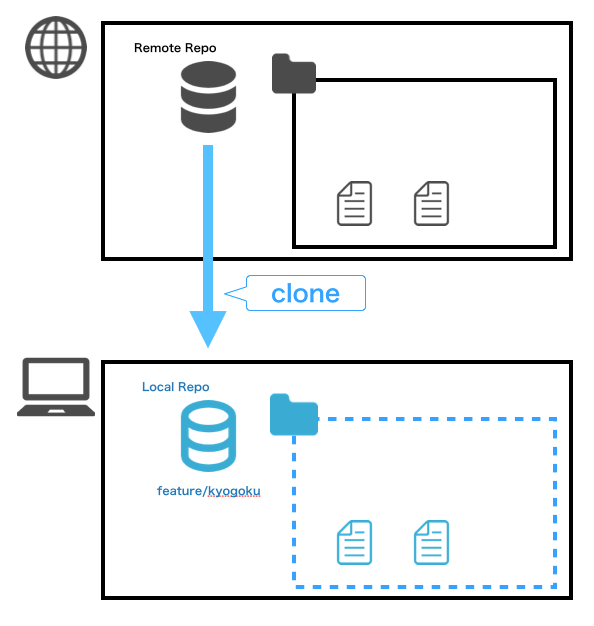
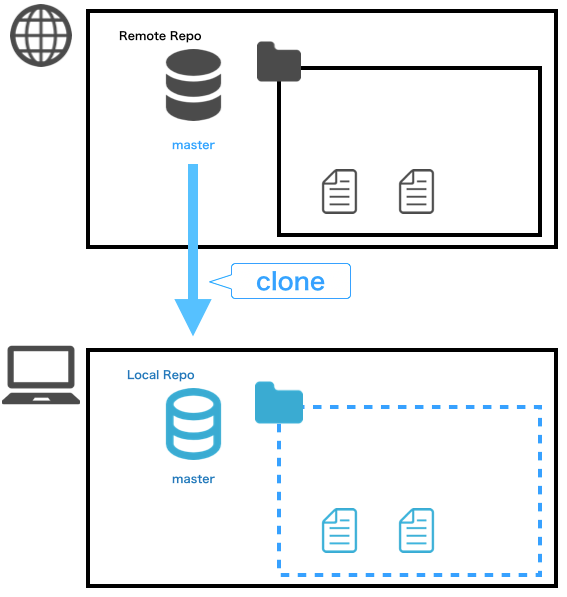
ワークショップ準備のため必要なディレクトリを先に追加

Changed region(s): [[0.0, 0.0, 0.9894, 0.995], [0.6896, 0.2714, 0.7795, 0.3618], [0.5697, 0.2714, 0.6296, 0.3618]]

diff --git a/docs/Phase4/4-jp.md b/docs/Phase4/4-jp.md
@@ -66,7 +66,7 @@ paginate: true
 
 ※第 1 回講義資料より
 
-![gitイメージ](https://www.ricksoft.jp/blog/wp-content/uploads/2018/11/Subversion02.png)
+![w:800px](https://www.ricksoft.jp/blog/wp-content/uploads/2018/11/Subversion02.png)
 
 出典：[GitとSubversionの構造的な違い - Ricksoft Blog](https://www.ricksoft.jp/blog/archives/9483/)
 
@@ -99,63 +99,105 @@ Git がどういう物なのかを学んで行きます。
 
 まずみなさんが本講義を受ける時に初めて叩いたコマンドがこれでした。
 
-```git clone https://github.com/GuildWorks/titech-2020.git`
-
-----
-
-※今までの講義で編集したファイルたちが残っているとこの後の commit / push の時に大変だと思うので、別名でもう一回 clone してきた方がよいかも。
+```bash
+git clone https://github.com/GuildWorks/titech-2020.git`
+```
 
 ----
 
 このコマンドが何をやっているかというと... :thinking:
 
 * `git` で Git のコマンドであることを示します
-* 次に Git の `clone` コマンドを実行します。
-* この `clone` は、その後に続く「リモートリポジトリ」の内容をもとに「ローカルリポジトリ」を作るコマンドになります。
-* その時、リモートリポジトリから **どのブランチ** の状態を持ってくるかが重要になってきます
-* 最初に叩いたコマンドではブランチ名を特に指定していませんでした
-* ブランチ名が省略された場合、対象となるリモートリポジトリに設定されているデフォルトブランチ（今回なら `master` ブランチ）の状態を持ってきます
-* もし、特定のブランチの状態を指定してリモートリポジトリの内容を持ってきたい場合はこんな感じになります。
-
-```git clone -b feature/phase4 git@github.com:GuildWorks/titech-2020.git```
-
-※リモートとローカルの作業ディレクトリの絵
+* 次に Git の `clone` コマンドを実行します
+* この `clone` は、その後に続く「リモートリポジトリ」の内容をもとに「ローカルリポジトリ」を作るコマンドになります
+* この時、リモートリポジトリから **どのブランチ** の状態を持ってくるかが重要になってきます
+* 最初に叩いたコマンドではブランチ名を省略していますが、この場合は、対象となるリモートリポジトリに設定されているデフォルトブランチ（今回なら `master` ブランチ）の状態を持ってきます
 
 ----
 
-もう 1 つ。
+* もし、特定のブランチの状態を指定してリモートリポジトリの内容を持ってきたい場合はこんな感じになります
+
+```bash
+git clone -b feature/phase4 https://github.com/GuildWorks/titech-2020.git
+```
+
+----
+
+![bg w:600px left:45%](images/git_clone_before.png)
+
+![bgw:600px](images/git_clone_after.png)
+
+----
+
+今までの #1 ~ #3 までで利用していた titech-2020 のディレクトリを
+そのまま利用すると、過去の編集でたくさんの差分が発生しています
+
+なので、今日のワークショップ用に下記コマンドを叩いて新しくローカルリポジトリを取得しましょう
+
+----
+
+⚠このコマンドを実行するのは、今まで利用していた titech-2020 の
+一つ上の階層で実行してください！
+
+```bash
+# titech-2020 のディレクトリに移動
+
+# 一つ上の階層に移動
+cd ../
+
+# 今日のワークショップ用に再度 clone
+git clone https://github.com/GuildWorks/titech-2020.git titech-2020-day4
+```
+
+実行できましたかね？
+まだの人ーー 🙋♀ ？
+
+----
+
+OK。もう 1 つ。
 
 みなさんが馴染みのあるコマンドを見てみましょう。
 
-`git pull`
+```bash
+git pull
+```
 
 ----
 
 このコマンドが何をやっているかというと... :thinking:
 
-* Git の `pull` コマンドを実行しています。
+* Git の `pull` コマンドを実行しています
 * この `pull` は、今見ている **ブランチ** の内容を最新化するコマンドになります
-  * 今見ているブランチは先ほど述べた通り `master` ブランチとなります
-
-※内部的には
-* リモートリポジトリからローカルリポジトリへ
-* そして、ローカルリポジトリから作業ディレクトリへ
-を一発で行っているコマンドになります
+* 先程の例だと、今見ている **ブランチ** は `master` ブランチとなります
 
 ----
 
-（画像）
+内部的には...
+
+1. リモートリポジトリからローカルリポジトリへ
+  `git fetch`
+2. そして、ローカルリポジトリから作業ディレクトリへ
+  `git merge`
+
+を一発で行っているコマンドになります💪
+
+![bg w:600px right:50%](images/git_pull_after.png)
 
 ----
 
-では、本当に今見ているブランチが `master` ブランチなのか確かめてみましょう
+では、今見ているブランチが本当に `master` ブランチなのか確かめてみましょう👀
 
-ルートで `git branch` コマンドを実行してみましょう
+先程 clone してきた `titech-2020-day4` の直下で `git branch` コマンドを実行してみましょう
+
+----
 
 すると、今のブランチ名の横に `*` が付いていると思います。
-（GitBash や Terminal を使っていれば、文字色も変わっているはず :smile:）
+GitBash や Terminal を使っていれば、文字色も変わっているはず :smile:
 
-このコマンドは、現在「ローカルリポジトリ」にどういったブランチが存在するかを確認するコマンドになります。
+![w:900px](images/git_branch_before.png)
+
+
+このコマンドは、現在「ローカルリポジトリ」にどういったブランチが存在し、現在はどのブランチを向いているのかを確認するコマンドになります。
 
 ----
 
@@ -164,17 +206,28 @@ Git がどういう物なのかを学んで行きます。
 ----
 
 では、今度は新しいブランチを作成してみましょう。
-新しいブランチを作成するイメージは文字通り枝分かれするイメージとなります。
+新しいブランチを作成するイメージは、文字通り枝分かれするイメージとなります。
 
-※今の master ブランチから feature ブランチが枝分かれするイメージを
+![w:700px](images/branch_feature.png)
+
+これは `master` ブランチから `feature` ブランチが枝分かれするイメージ
 
 ----
 
 では早速ブランチを作成してみましょう。
 
-`git branch feature/{your-name}`
+```bash
+git branch feature/{your-name}
+```
 
-※君の名はのポスター
+`{your-name}` の部分はご自身の苗字を当てはめてください。
+例えば私なら `feature/kyogoku` となるので
+
+```bash
+git branch feature/kyogoku
+```
+
+![bg w:400px right:45%](images/your-name.jpg)
 
 ----
 
@@ -188,9 +241,15 @@ Git がどういう物なのかを学んで行きます。
 
 ----
 
-```git branch```
+```bash
+git branch
+```
 
 すると、最初に `git branch` を叩いた時にあった `master` ブランチの他に、先ほど作成した `feature/{your-name}` ブランチが存在しているはずです！
+
+![w:900px](images/git_branch_after.png)
+
+----
 
 これで新しいブランチが「ローカルリポジトリ」に作成されたことになります。
 ただ `*` のマークは相変わらず `master` ブランチに付いていますよね？
@@ -199,12 +258,25 @@ Git がどういう物なのかを学んで行きます。
 ----
 
 そこで、作成したブランチに移動してみましょう。
+実行するのは `git checkout` コマンドになります。
 
-次は `git checkout feature/{your-name}`
+```bash
+git checkout feature/{your-name}
+```
+
+このように `checkout` の後に移動したいブランチ名を指定します。
+
+私の場合はこんな感じですね。
+
+```bash
+git checkout feature/kyogoku
+```
+
+----
 
 このコマンドを叩くと
 ```git
-Switched to branch 'feature/kyogoku'
+Switched to branch 'feature/{your-name}'
 ```
 
 というメッセージが表示されたはずです！
@@ -214,25 +286,35 @@ Switched to branch 'feature/kyogoku'
 
 では本当にブランチを移動したのか確認してみましょう。
 
-...何のコマンドを使えば良いかわかりますよね（しつこい） :kiss:？
+...何のコマンドを使えば良いかわかりますよね :kiss::kiss:？
 
 そうです！
 三度登場！ `git branch` コマンドになります。
+
+```bash
+git branch
+```
+
+----
 
 `git branch` を実行すると `*` の位置が変わっていますよね？
 先ほどまでは `master` ブランチに `*` が付いていたはずですが
 今叩いてみると `feature/{your-name}` ブランチに `*` がついているはずです。
 
-これで、作業ブランチが `feature/{your-name}` ブランチに移動しました。
+![w:900px](images/git_checkout_after.png)
+
+これで無事に作業ブランチが `feature/{your-name}` ブランチに移動しました。
 
 ----
 
 ここまで学んだコマンドをおさらいしてみましょう。
 
-`clone`
-`pull`
-`branch`
-`checkout`
+コマンド|用途|
+:-|:-|
+`clone`|リモートリポジトリからローカルリポジトリを作成|
+`pull`|現在のブランチ内容を最新化|
+`branch`|ブランチを作成|
+`checkout`|ブランチを移動|
 
 ----
 
@@ -240,15 +322,47 @@ Switched to branch 'feature/kyogoku'
 
 流れとしてはこんな感じになります。
 
-1. 作業ディレクトリでファイルの変更を行う
-2. 変更内容を「ローカルリポジトリ」へ反映
-3. 「ローカルリポジトリ」の内容を「リモートリポジトリ」へ反映
+0. :black_square_button: 本日新たに `clone` したディレクトリを VS Code に追加
+1. :black_square_button: 作業ディレクトリでファイルの変更を行う
+2. :black_square_button: 変更内容を「ローカルリポジトリ」へ反映
+3. :black_square_button: 「ローカルリポジトリ」の内容を「リモートリポジトリ」へ反映
 
 ----
 
-### 作業ディレクトリでファイルの変更を行う
+### 0. 本日新たに `clone` したディレクトリを VS Code に追加
+
+まず事前準備として、本日新たに `clone` してきたディレクトリを VS Code に追加し、VS Code 上で編集できるようにします。
+
+----
+
+まず VS Code の左パネルの `GITHUB (WORKSPACE)` となっているところが表示されていることを確認。
+
+そして、その領域に本日新たに `clone` してきたディレクトリを Drag & Drop します。
+
+ディレクトリの名前はみなさん `titech-2020-day4` のはず！
+
+![bg w:600px right:50%](images/vscode_add_to_workspace.png)
+
+----
+
+Drag & Drop が成功すると、こんな確認ダイアログが表示されるはずなので一番上の `Add Folder to Workspace` をクリック。
+
+![bg w:500px right:50%](images/vscode_add_to_workspace_confirm.png)
+
+----
+
+すると VS Code 左パネルの `GITHUB (WORKSPACE)` のところに `titech-2020-day4` が増えているはずです！
+
+増えていないひとー 🙋♀ ？
+
+![bg w:500px right:50%](images/vscode_add_to_workspace_after.png)
+
+----
+
+### 1. 作業ディレクトリでファイルの変更を行う
 
 VS Code で下記のディレクトリを選択してください。
+
 そして、右クリックのメニューから `New File` を選択して新規ファイルを作成します。
 
 （画像）
